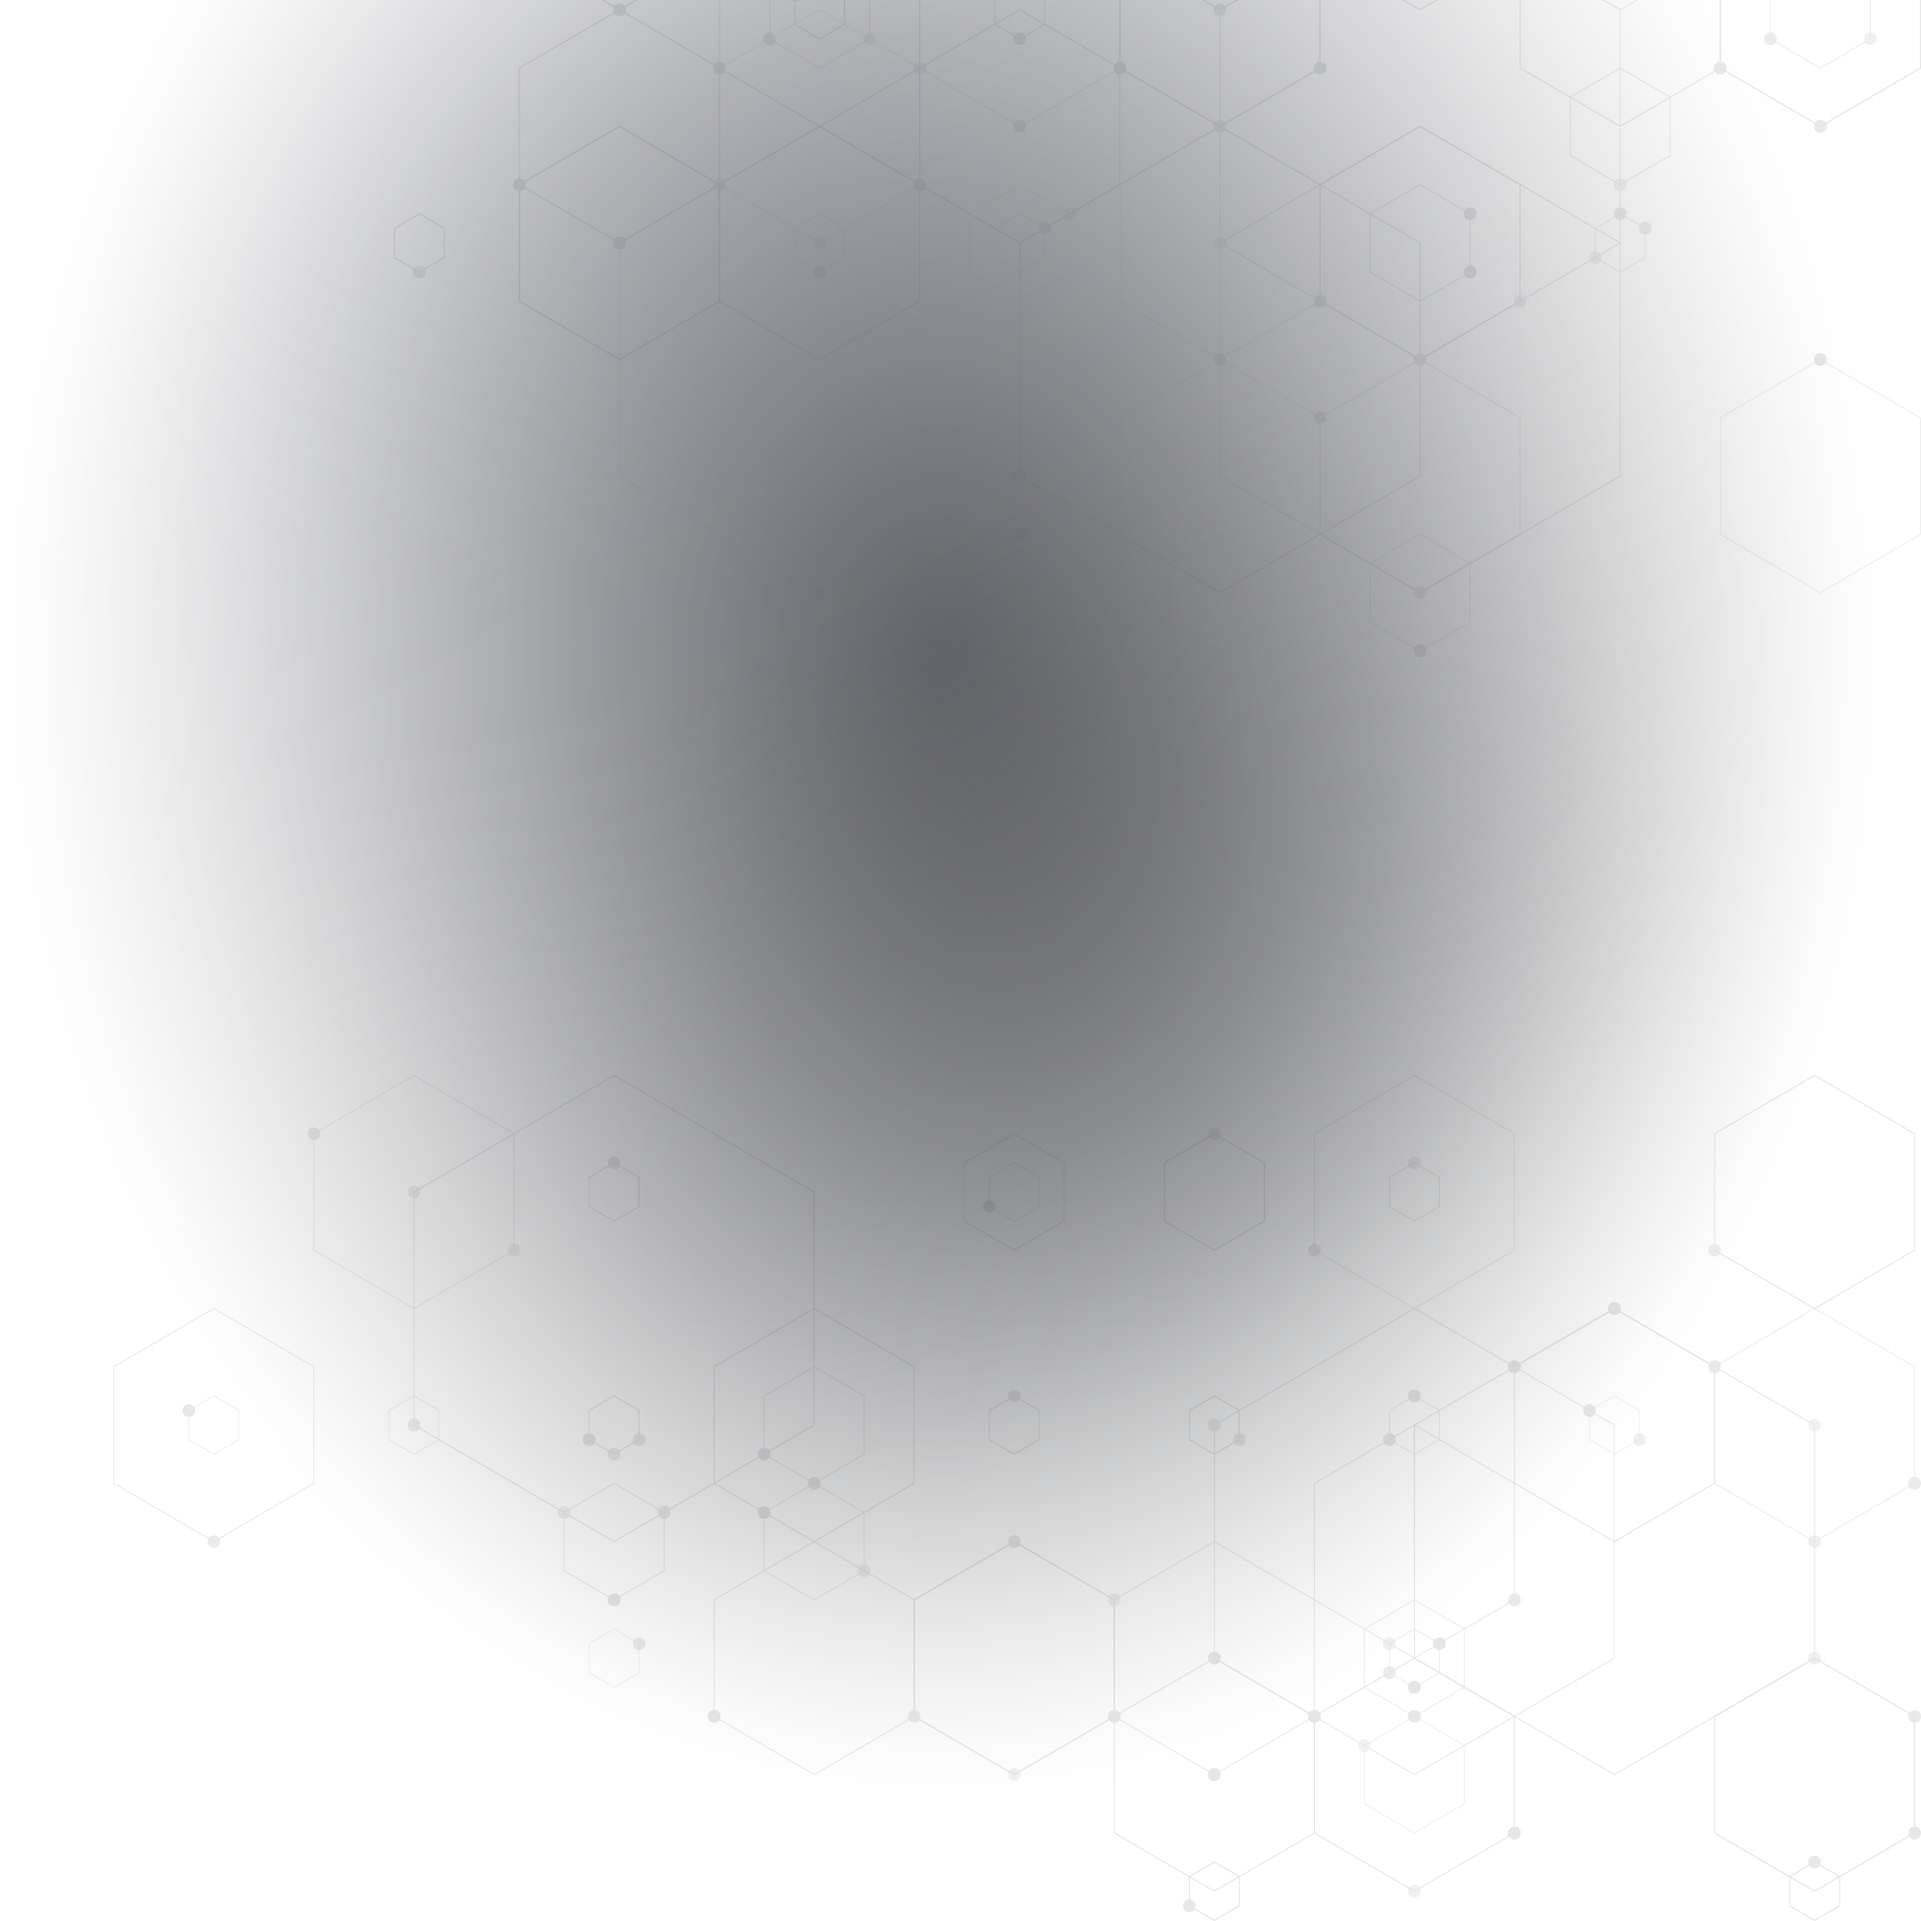
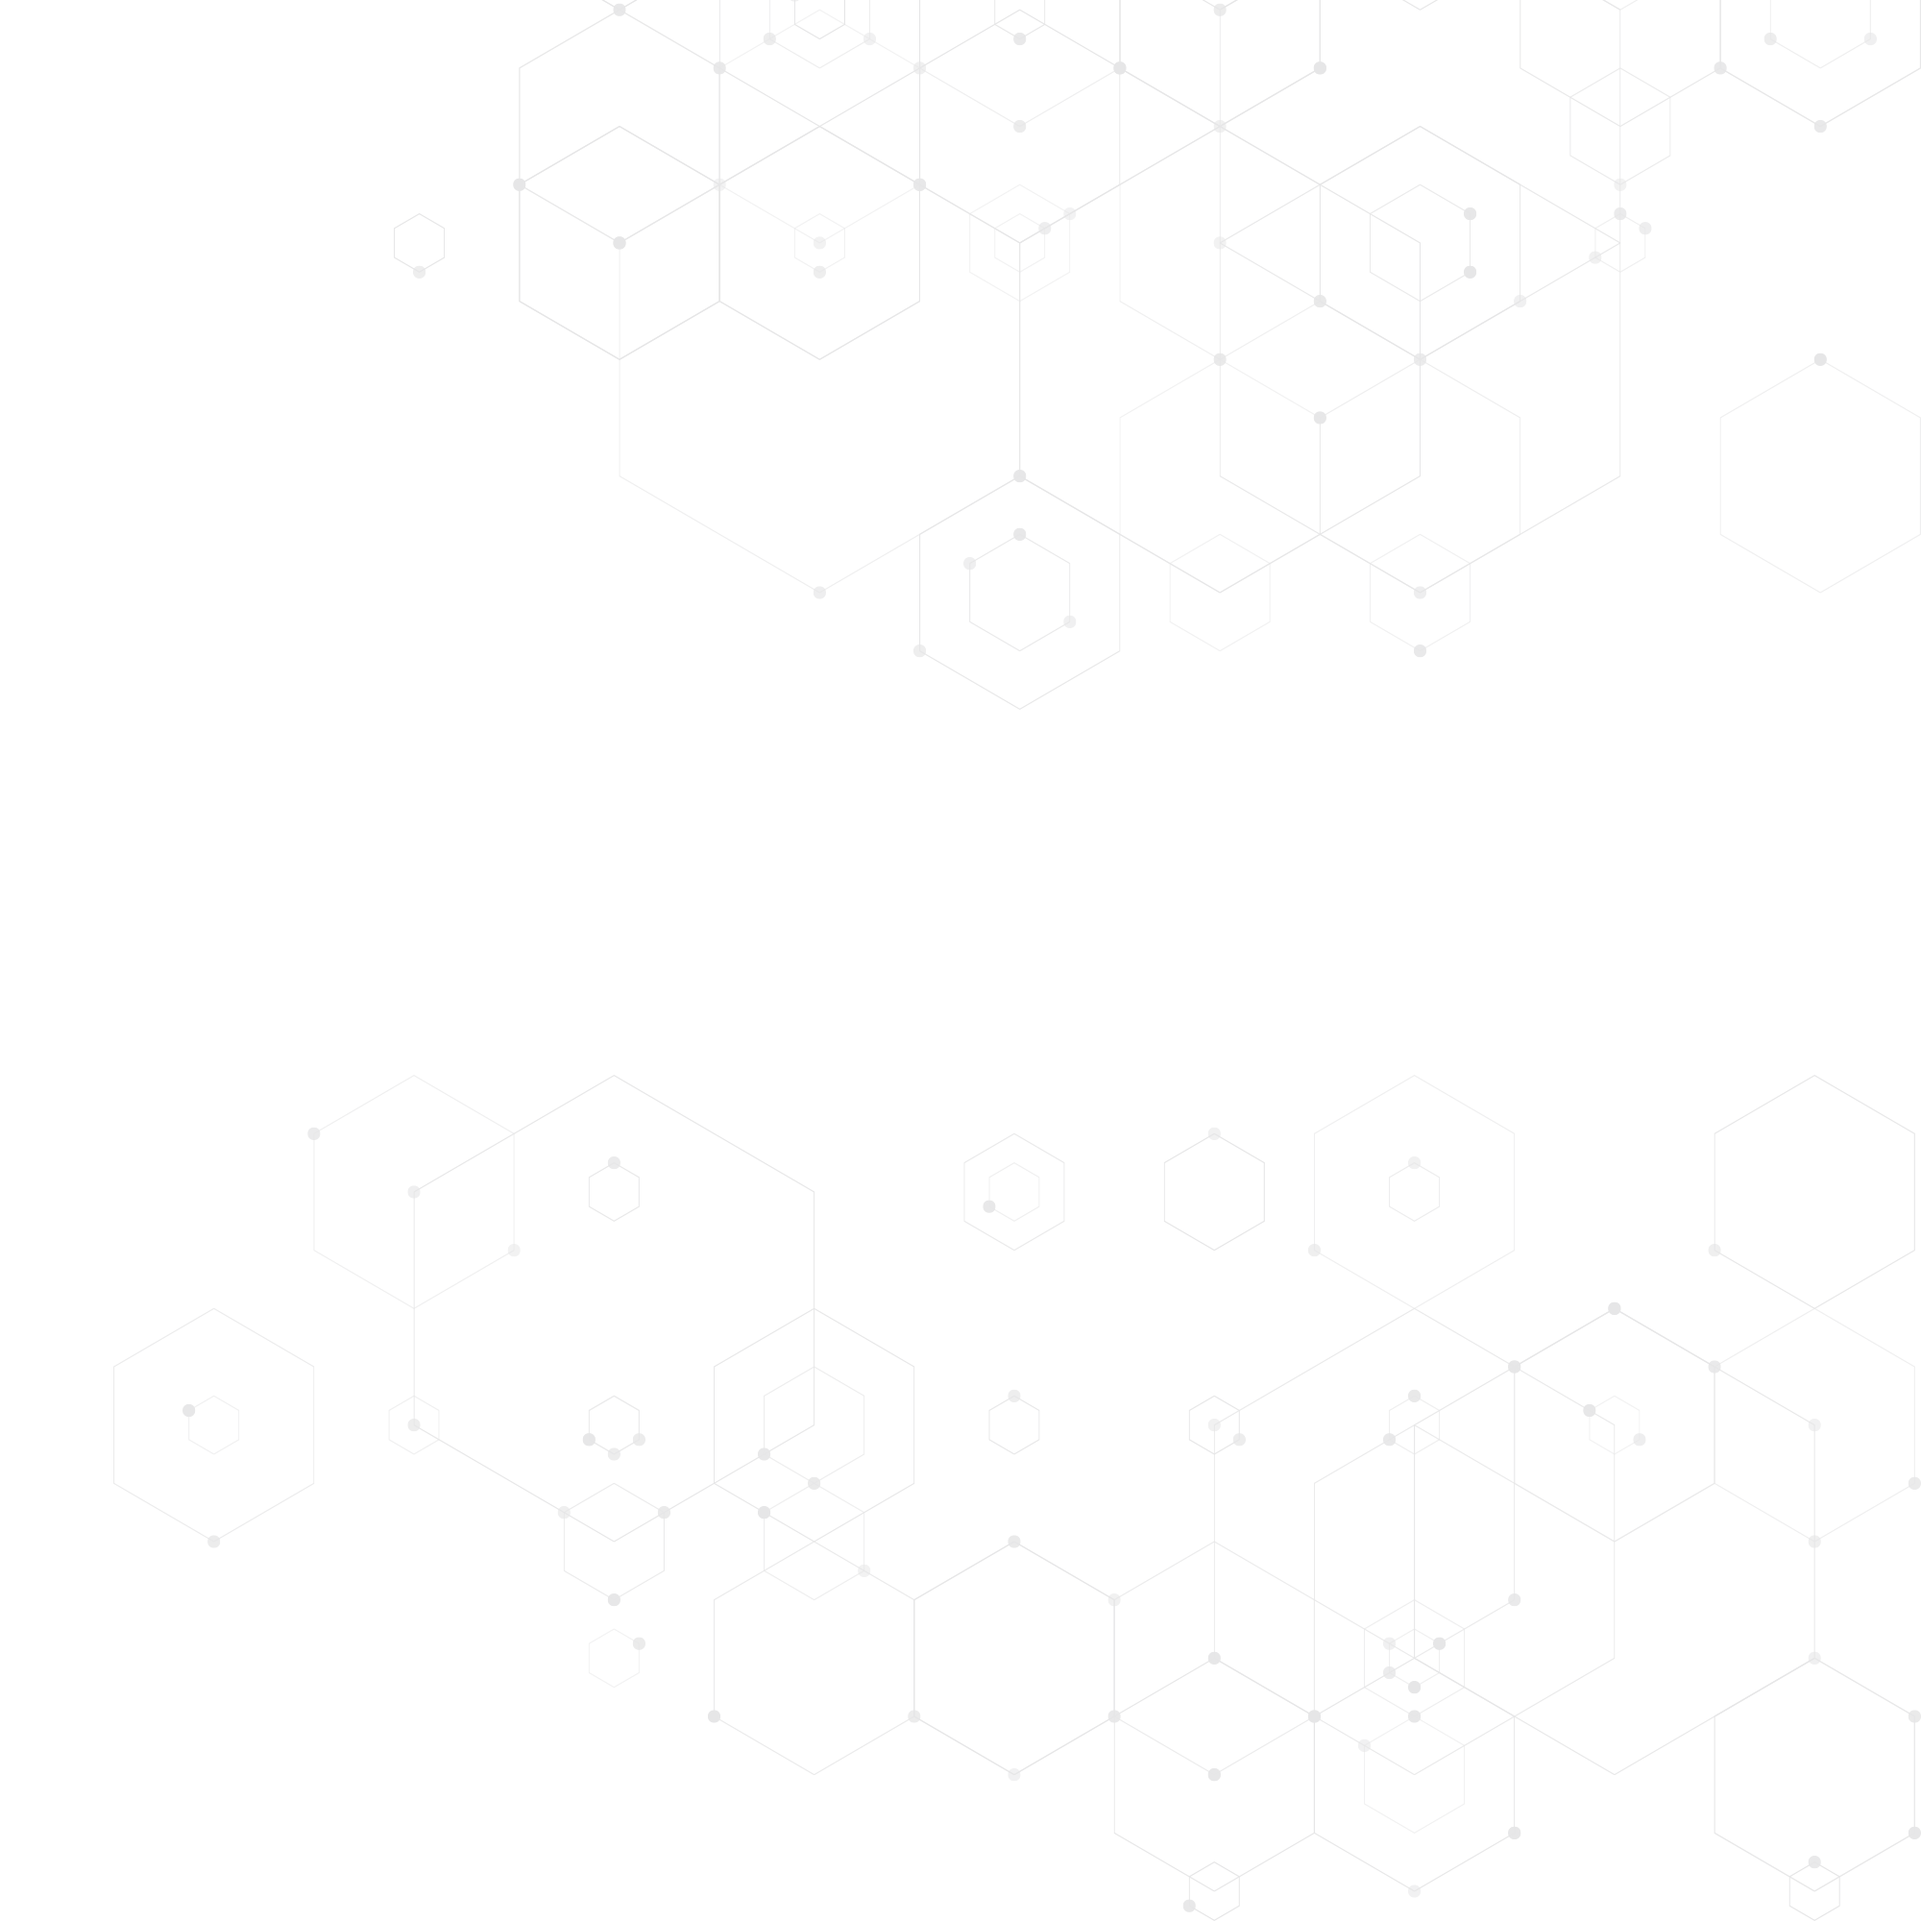
Gradient added to header

diff --git a/app/styles/components/main-title.scss b/app/styles/components/main-title.scss
@@ -23,14 +23,14 @@ main-title {
 					width: 1000px;
 					height: 1000px;
 					display: block;
-					position: absolute;
 					border-radius:0px;
+					position: absolute;
 					background-size: 100%;
 					background-repeat: no-repeat;
-					background-image: url("/static/img/home/background@2x.png");
+					background-image: url("/static/img/home/background@2x.png"), radial-gradient(farthest-corner at 450px 40px, #606267 0%, #181a1f 55%);
 
 					@media (-webkit-min-device-pixel-ratio: 2), (min-resolution: 192dpi) {
-						background-image: url("/static/img/home/background@2x.png");
+						background-image: url("/static/img/home/background@2x.png"), radial-gradient(farthest-corner at 450px 40px, #606267 0%, #181a1f 55%);
 					}
 
 				}
@@ -53,14 +53,14 @@ main-title {
 					width: 1000px;
 					height: 1000px;
 					display: block;
-					position: absolute;
 					border-radius:0px;
+					position: absolute;
 					background-size: 100%;
 					background-repeat: no-repeat;
-					background-image: url("/static/img/home/background@2x.png");
+					background-image: url("/static/img/home/background@2x.png"), radial-gradient(farthest-corner at 500px 40px, #606267 0%, #181a1f 55%);
 
 					@media (-webkit-min-device-pixel-ratio: 2), (min-resolution: 192dpi) {
-						background-image: url("/static/img/home/background@2x.png");
+						background-image: url("/static/img/home/background@2x.png"), radial-gradient(farthest-corner at 500px 40px, #606267 0%, #181a1f 55%);
 					}
 
 				}

diff --git a/app/styles/app.scss b/app/styles/app.scss
@@ -27,9 +27,9 @@ body {
 	text-rendering: optimizeLegibility !important;
 	-webkit-font-smoothing: subpixel-antialiased !important;
 	background: rgb(24,26,31);
-	background: -moz-linear-gradient(129deg, rgba(24,26,31,1) 0%, rgba(43,49,58,1) 100%);
-	background: -webkit-linear-gradient(129deg, rgba(24,26,31,1) 0%, rgba(43,49,58,1) 100%);
-	background: linear-gradient(129deg, rgba(24,26,31,1) 0%, rgba(43,49,58,1) 100%);
+	background: -moz-linear-gradient(129deg, rgba(24,26,31,1) 30%, rgba(43,49,58,1) 100%);
+	background: -webkit-linear-gradient(129deg, rgba(24,26,31,1) 30%, rgba(43,49,58,1) 100%);
+	background: linear-gradient(129deg, rgba(24,26,31,1) 30%, rgba(43,49,58,1) 100%);
 	filter: progid:DXImageTransform.Microsoft.gradient(startColorstr="#181a1f",endColorstr="#2b313a",GradientType=1);
 }
 

diff --git a/app/styles/components/signup-form.scss b/app/styles/components/signup-form.scss
@@ -32,7 +32,9 @@ signup-form {
 			display: inline-block;
 			border: 1px solid #2b313a;
 			padding:0px 30px 0px 30px;
+			border-top-left-radius: 6px;
 			background-color: Transparent;
+			border-bottom-left-radius: 6px;
 			font-family:'Poppins Regular', sans-serif;
 
 			&::placeholder {
@@ -71,6 +73,8 @@ signup-form {
 			text-align: center;
 			display: inline-block;
 			padding:0px 30px 0px 30px;
+			border-top-right-radius: 6px;
+			border-bottom-right-radius: 6px;
 			transition:box-shadow 0.3s ease-in-out;
 			font-family:'Poppins Regular', sans-serif;
 			background: -moz-linear-gradient(-60deg, rgba(135,0,255,1) 0%, rgba(255,60,172,1) 70%);

diff --git a/app/styles/components/header.scss b/app/styles/components/header.scss
@@ -77,8 +77,9 @@ header {
 				font-size: 15px;
 				margin-top: 28px;
 				margin-left: 40px;
-				text-align: center;
 				border-radius:0px;
+				text-align: center;
+				border-radius: 6px;
 				background: rgb(135,0,255);
 				background: -moz-linear-gradient(-60deg, rgba(135,0,255,1) 0%, rgba(255,60,172,1) 70%);
 				background: -webkit-linear-gradient(-60deg, rgba(135,0,255,1) 0%, rgba(255,60,172,1) 70%);

diff --git a/app/styles/components/box-button.scss b/app/styles/components/box-button.scss
@@ -9,8 +9,8 @@ box-button {
 	cursor: pointer;
 	box-shadow: none;
 	line-height: 22px;
+	border-radius: 6px;
 	text-align: center;
-	border-radius:0px;
 	margin-bottom: 100px;
 	display: inline-block;
 	background: -moz-linear-gradient(-60deg, rgba(135,0,255,1) 0%, rgba(255,60,172,1) 70%);
